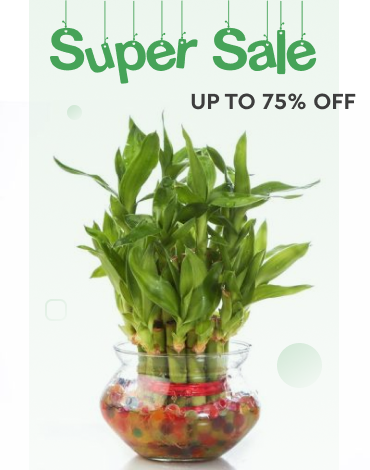
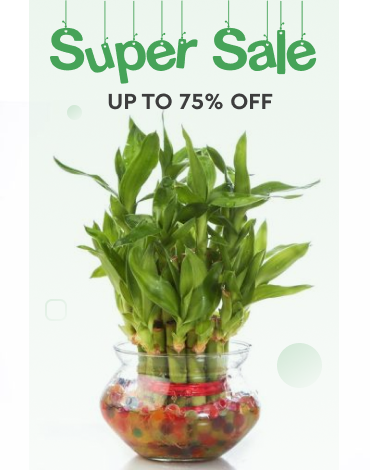
Flex

Changed region(s): [[0.2973, 0.1787, 0.9514, 0.2383]]

diff --git a/index.html b/index.html
@@ -10,7 +10,7 @@
     <div class="conteiner">
         <div class="left-part">
             <ul class="nav">
-            Categories
+                <li class="nav-item2">Categories</li>
                 <li class="nav-item1">House Plants</li>
                 <li class="nav-item"> Potter Plants</li>
                 <li class="nav-item">Seeds</li>
@@ -21,9 +21,9 @@
                 <li class="nav-item">Gardening</li>
                 <li class="nav-item">Accessories</li>
             </ul>
-            <img src="./pictures/Super Sale Banner.png" alt="">
+            <img src="./pictures/Super Sale Banner.png" class="sale">
         </div>
-        <div class="right part">
+        <div class="right-part">
             <header class="header">
                 <ul class="head1">
                     <li class="Plants">All Plants</li>
@@ -33,60 +33,70 @@
                 <ul class="head2">
                     <li class="other2">Short by:</li>
                     <li class="other2">Default sorting</li>
-                    <svg xmlns="http://www.w3.org/2000/svg" width="12" height="8" viewBox="0 0 12 8" fill="none">
+                    <svg class="sss" xmlns="http://www.w3.org/2000/svg" width="12" height="8" viewBox="0 0 12 8" fill="none">
                     <path d="M10.6667 1.66669L6.00004 6.33335L1.33337 1.66669" stroke="#3D3D3D" stroke-width="1.5" stroke-linecap="round" stroke-linejoin="round"/>
                     </svg>
                 </ul>
             </header>
             <div class="img">
-                <div>
-                    <img src="./pictures/1.png">
+                <div class="img-item">
+                    <img src="./pictures/1.png" class="img1">
                     <p>Barberton Daisy</p>
                     <p class="num">$119.00</p>
                 </div>
-                <div>
-                    <img src="./pictures/2.png" alt="">
+                <div class="img-item">
+                    <img src="./pictures/2.png" class="img1">
                     <p>Angel Wing Begonia</p>
                     <p class="num">$169.00</p>
                 </div>
-                <div>
-                    <img src="./pictures/3.png" alt="">
+                <div class="img-item">
+                    <img src="./pictures/3.png" class="img1">
                     <p>African Violet</p>
                     <p class="num">$199.00</p>
                 </div>
-                <div>
-                    <img src="./pictures/4.png" alt="">
+                <div class="img-item">
+                    <img src="./pictures/4.png" class="img1">
                     <p>Beach Spider Lily</p>
                     <p class="num">$129.00</p>
                 </div>
-                <div>
-                    <img src="./pictures/5.png" alt="">
+                <div class="img-item">
+                    <img src="./pictures/5.png" class="img1">
                     <p>Blushing Bromeliad</p>
                     <p class="num">$139.00</p>
                 </div>
-                <div>
-                    <img src="./pictures/6.png" alt="">
+                <div class="img-item">
+                    <img src="./pictures/6.png" class="img1">
                     <p>Aluminum Plant</p>
                     <p class="num">$179.00</p>
                 </div>
-                <div>
-                    <img src="./pictures/7.png" alt="">
+                <div class="img-item">
+                    <img src="./pictures/7.png" class="img1">
                     <p>Bird's Nest Fern</p>
                     <p class="num">$99.00</p>
                 </div>
-                <div>
-                    <img src="./pictures/8.png" alt="">
+                <div class="img-item">
+                    <img src="./pictures/8.png" class="img1">
                     <p>Broadleaf Lady Palm</p>
                     <p class="num">$59.00</p>
                 </div>
-                <div>
-                    <img src="./pictures/9.png" alt="">
+                <div class="img-item">
+                    <img src="./pictures/9.png" class="img1">
                     <p>Chinese Evergreen</p>
                     <p class="num">$39.00</p>
                 </div>
             </div>
-            <div class="number"></div>
         </div>
     </div>
+    <div class="number">
+                <li class="number2">1</li>
+                <li class="number1">2</li>
+                <li class="number1">3</li>
+                <li class="number1">4</li>
+                <li class="arrow">
+                    <svg class="arow" xmlns="http://www.w3.org/2000/svg" width="12" height="8" viewBox="0 0 12 8" fill="none">
+                        <path d="M10.6667 1.66669L6.00004 6.33335L1.33337 1.66669" stroke="#3D3D3D" stroke-width="1.5" stroke-linecap="round" stroke-linejoin="round"/>
+                    </svg>
+                </li>
+            </div>
 </body>
 </html>

diff --git a/Css/styles.css b/Css/styles.css
@@ -43,29 +43,29 @@
 
 .conteiner{
     display: flex;
+    margin: 82px 105px;
+    gap: 25px;
 }
 
 .left-part{
-    display: inline-block;
-
+    display: flex;
+    flex-direction: column;
+    justify-content: space-between;
 }
 
 .nav{
-    color: #3D3D3D;
-    font-family: "Cera Pro";
-    font-size: 18px;
-    font-style: normal;
-    font-weight: 700;
-    padding:7px ;
+    padding: 7px 240px 320px 12px;
 }
 
-.nav-items{
+.nav-item{
+    text-align: left;
     color: #3D3D3D;
     font-family: "Cera Pro";
     font-size: 15px;
     font-style: normal;
     font-weight: 400;
-    padding: 7px;
+    padding-left: 10px;
+    padding-bottom: 25px;
 }
 
 .nav-item1{
@@ -74,28 +74,50 @@
     font-size: 15px;
     font-style: normal;
     font-weight: 700;
-    padding: 7px;
+    padding-left: 10px;
+    width: 120%;
+    padding-bottom: 25px;
+}
+
+.nav-item2{
+    color: #3D3D3D;
+    font-family: "Cera Pro";
+    font-size: 18px;
+    font-style: normal;
+    font-weight: 700;
+    padding-bottom: 15px;
 }
 
 .right-part{
-    display:inline-block;
+    display:flex;
+    flex-direction: column;
 }
 
 .header{
     display: flex;
     justify-content: space-between;
+    margin-bottom: 38px;
 }
 
 .head1{
     display: flex;
+    gap: 40px;
 }
 
 .head2{
     display: flex;
+    gap: 8px;
 }
 
+.sss{
+    display: flex;
+    justify-content: center;
+    align-items: center;
+}
 
 .Plants{
+    display: flex;
+    justify-content: space-between;
     color: #46A358;
     font-family: "Cera Pro";
     font-size: 15px;
@@ -106,11 +128,19 @@
 
 .other1{
     display: flex;
+    justify-content: space-between;
     color: #3D3D3D;
     font-family: "Cera Pro";
     font-size: 15px;
     font-style: normal;
     font-weight: 400;
+    padding-left: 10px;
+}
+
+.sale{
+    display: flex;
+    align-items: end;
+    justify-content: end;
 }
 
 .other2{
@@ -119,13 +149,22 @@
     font-size: 15px;
     font-style: normal;
     font-weight: 400;
-    padding: 2px;
+    padding-right: 5px;
 }
 
 .img{
     display: flex;
+    align-content: center;
     flex-wrap: wrap;
-    justify-content: space-between;
+    justify-content: center;
+    row-gap:70px ;
+    column-gap: 37px;
+}
+
+
+.img1{
+    width: 258px;
+    height: 350px;
 }
 
 p{
@@ -143,4 +182,52 @@ p{
     font-size: 18px;
     font-style: normal;
     font-weight: 700;
+}
+
+.number{
+    display: flex;
+    justify-content: end;
+    align-items: flex-start;
+    gap: 10px;
+    margin-top: 90px;
+    margin-right: 105px;
+}
+
+.number1{
+    border-radius: 4px;
+    border: 1px solid #E5E5E5;
+    color: #3D3D3D;
+    font-family: "Cera Pro";
+    font-size: 18px;
+    font-style: normal;
+    font-weight: 300;
+    padding: 10px 13px;
+}
+
+.number2{
+    border-radius: 4px;
+    background: #46A358;
+    border: 1px solid #46A358;
+    color: #3D3D3D;
+    color: #FFF;
+    font-family: "Cera Pro";
+    font-size: 18px;
+    font-style: normal;
+    font-weight: 700;
+    padding: 10px 13px;
+}
+
+.arrow{
+    border-radius: 4px;
+    border: 1px solid #E5E5E5;
+    color: #3D3D3D;
+    font-family: "Cera Pro";
+    font-size: 18px;
+    font-style: normal;
+    font-weight: 300;
+    padding: 10px 12px;
+}
+
+.arow{
+    transform: rotate(-90deg);
 }
